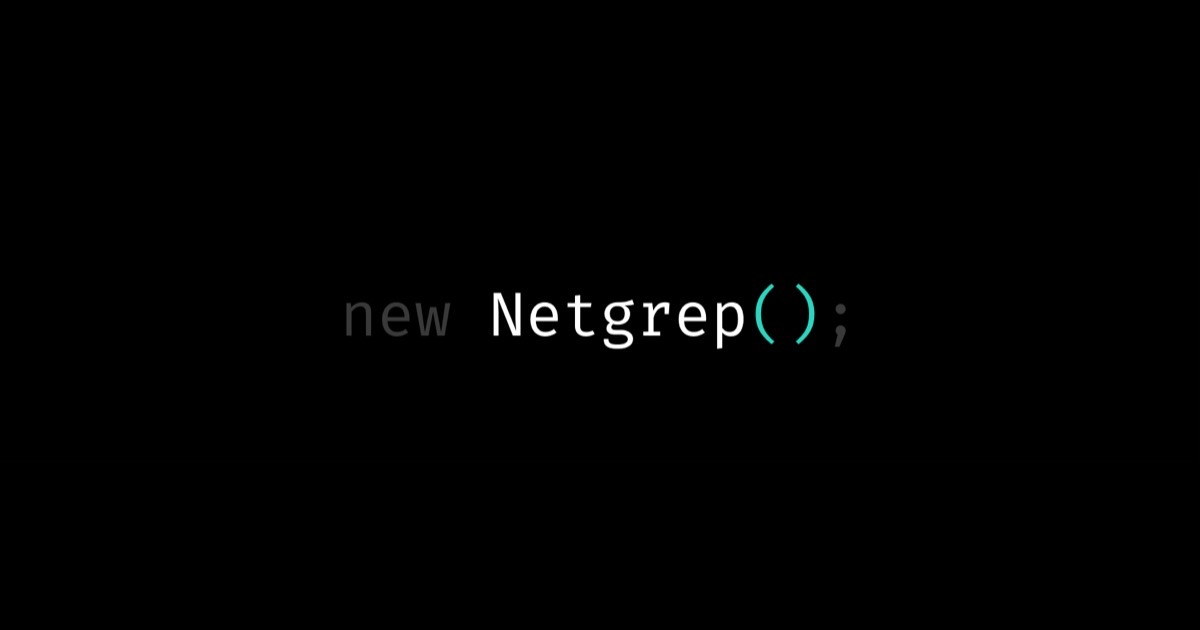
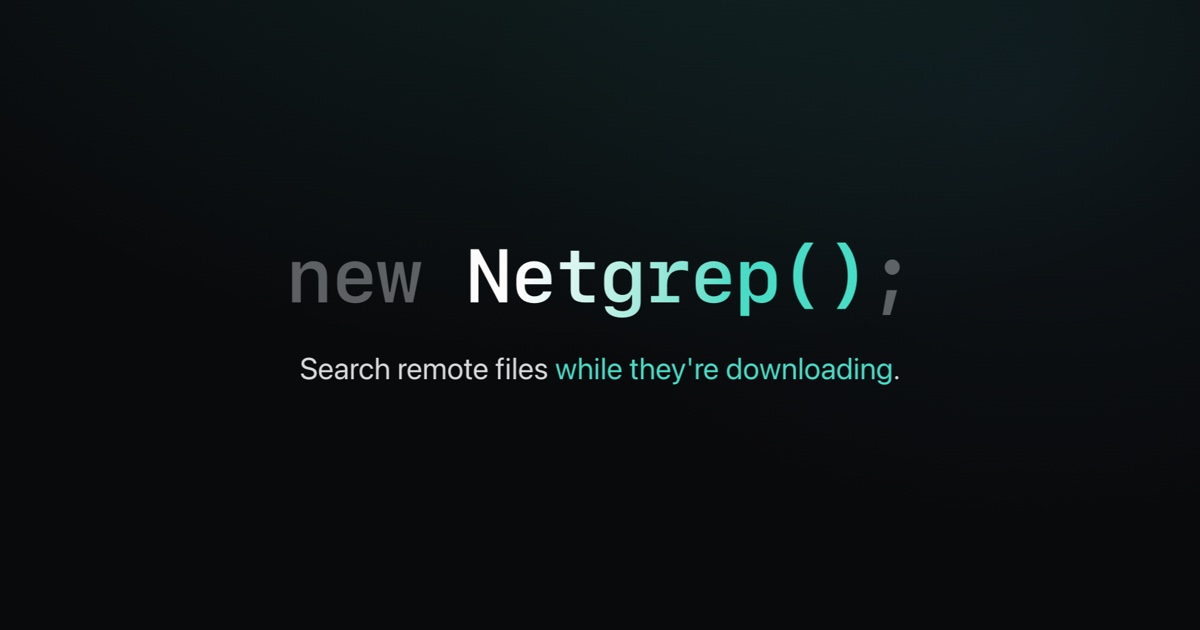
fix(example): make the Open Graph image look like the rest of the artwork
`og:image` was `assets/header.jpg` resampled to 1200px wide and padded out
to 1200x630 with pure black. That left the wordmark small inside a
letterbox whose flat black did not match the image's own gradient
background, and the padding dropped the tagline — so the unfurl was the one
place netgrep did not look like netgrep.

Cut it from `assets/social-preview.png` instead, which already carries the
gradient, the white-to-teal wordmark and the tagline. The source is 2000x1000
and Open Graph wants a slightly wider frame than 2:1, so it is centre cropped
to 1.905:1 before resampling; scaling straight to 1200x630 would stretch the
monospace wordmark.

`og:image:alt` described "the wordmark on black", which is no longer what the
image shows, and the README recipe pointed at `assets/header.jpg`, a file that
is not in the repository any more. Both now match the image that ships.

Changed region(s): [[0.2158, 0.0, 1.0, 0.6032]]

diff --git a/packages/example/index.html b/packages/example/index.html
@@ -66,7 +66,7 @@
     <meta property="og:image:height" content="630" />
     <meta
       property="og:image:alt"
-      content="The netgrep wordmark: new Netgrep(); set in monospace on black."
+      content="The netgrep wordmark — new Netgrep(); set in monospace, fading from white into teal — above the line 'Search remote files while they're downloading.', on a dark gradient."
     />
     <meta property="og:locale" content="en_US" />
 

diff --git a/packages/example/README.md b/packages/example/README.md
@@ -66,8 +66,21 @@ rsvg-convert -w 192 -h 192 favicon.svg -o icon-192.png
 rsvg-convert -w 180 -h 180 favicon.svg -o apple-touch-icon.png
 ```
 
-`public/og-image.jpg` is `assets/header.jpg` resampled to 1200px wide and padded to the 1200×630 that Open
-Graph wants: `sips --resampleWidth 1200 … | sips -p 630 1200 --padColor 000000`.
+**`public/og-image.jpg` is cut from `assets/social-preview.png`**, so the unfurl looks like the rest of the
+project's artwork — same gradient, same wordmark, same tagline — rather than like a shrunken banner. The
+source is 2000×1000 and Open Graph wants 1200×630, which is a slightly wider frame than 2:1, so it is centre
+cropped to that ratio first and only then resampled; scaling straight to 1200×630 would stretch the wordmark:
+
+```bash
+cp assets/social-preview.png /tmp/og.png
+sips -c 1000 1905 /tmp/og.png                                  # centre crop to 1.905:1
+sips -z 630 1200 /tmp/og.png                                   # resample
+sips -s format jpeg -s formatOptions 88 /tmp/og.png --out packages/example/public/og-image.jpg
+```
+
+The previous version was `assets/header.jpg` padded out with pure black, which left the wordmark small in a
+letterbox whose black did not match the image's own background. If you replace the image, update
+`og:image:alt` in `index.html` too — it describes what is actually in it.
 
 **`src/data/stories.ts` is generated.** Titles are read out of each file's own header block. After adding or
 removing a file in `public/stories/`:
